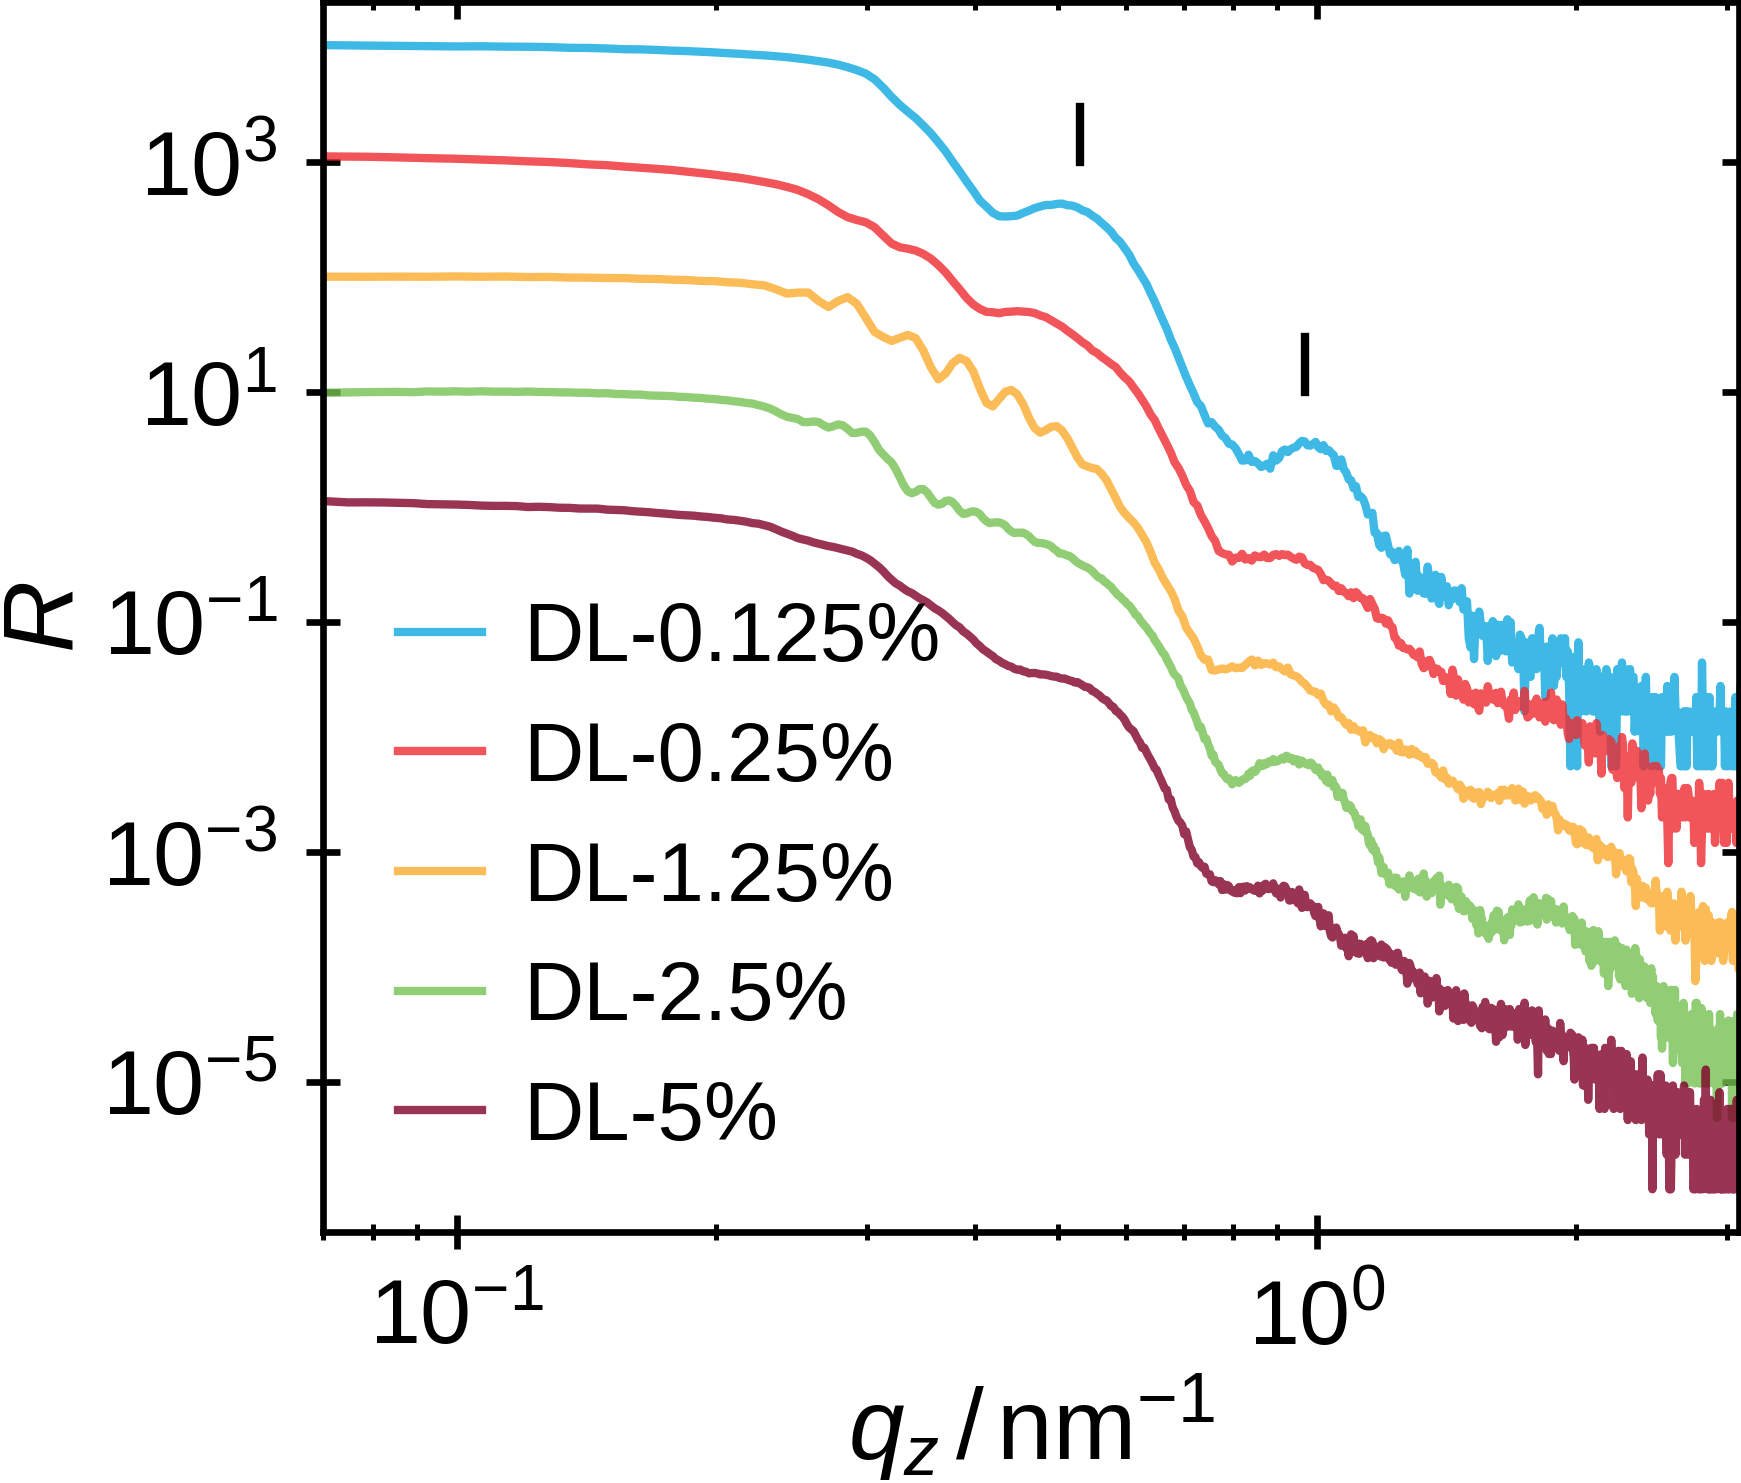
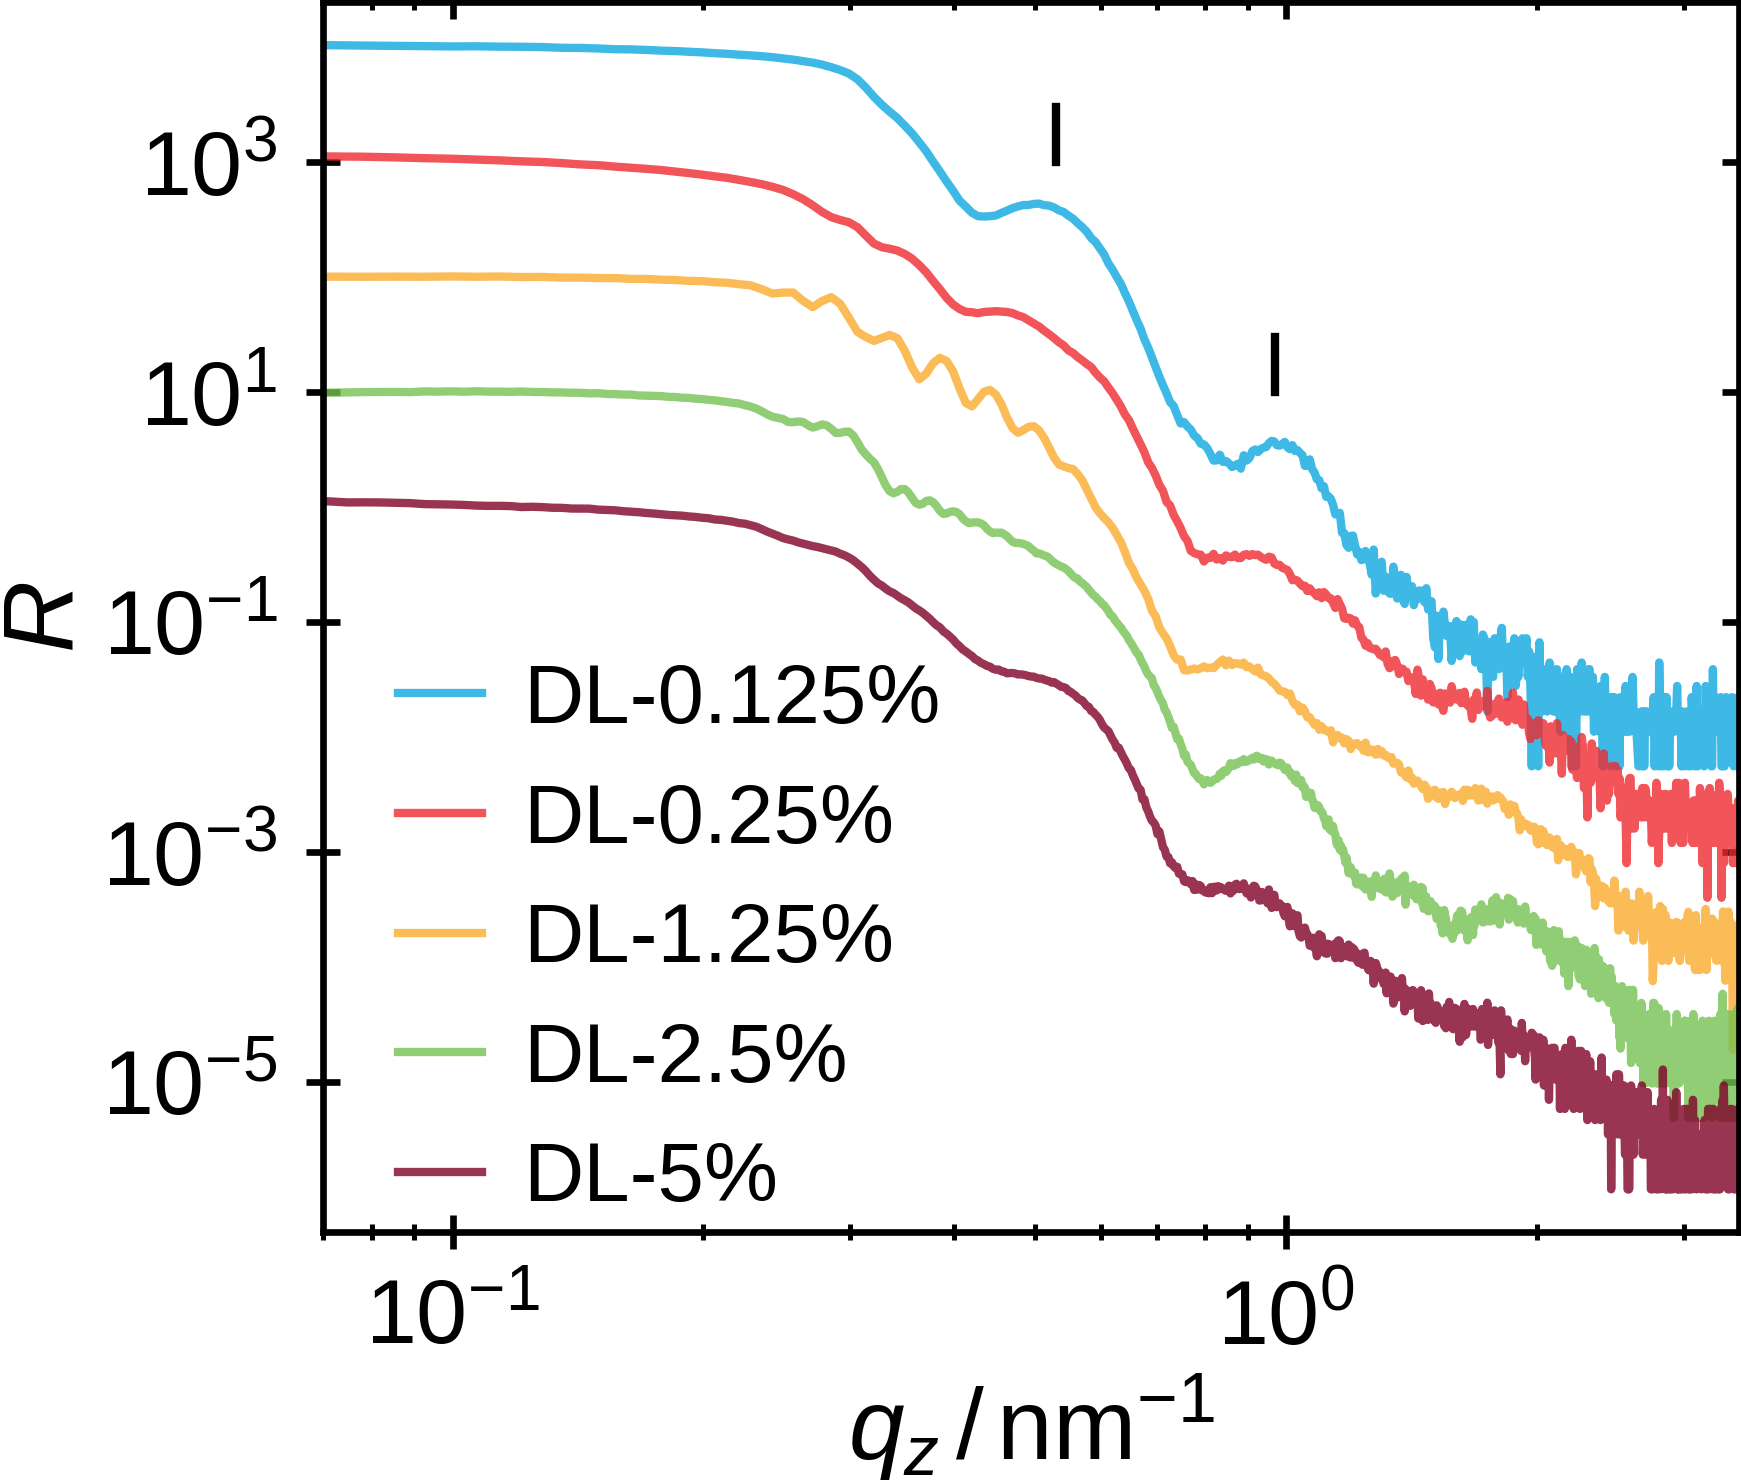
[Correction] Doublelayers exp. part Typo in Q-Range for XRR

diff --git a/chapters/doublelayers/experimentalMethods/layerCharacterization/layerCharacterization.tex b/chapters/doublelayers/experimentalMethods/layerCharacterization/layerCharacterization.tex
@@ -10,7 +10,7 @@
 
   \paragraphNewLine{X-Ray Reflectometry}
     Using a Bruker D8 Advanced at the \textsc{Forschungszentrum J\"ulich} (\refsec{ch:instruments:laboratoryInstruments:xrr}), XRR of all double layers is measured.
-    The samples are measured with a Cu-K$\alpha$ source ($\lambda \eq 1.54 \unit{\angstrom}$) and a $q$-range of $0 - 0.15 \unit{\angstrom^{-1}}$ is evaluated by measuring $2 \theta \eq 0^\circ - 1 ^\circ$ in $0.005 ^\circ$ steps over an integrated time of approximately $1 \unit{h}$.
+    The samples are measured with a Cu-K$\alpha$ source ($\lambda \eq 1.54 \unit{\angstrom}$) and a $q$-range of $0 - 0.35 \unit{\angstrom^{-1}}$ is evaluated by measuring $2 \theta \eq 0^\circ - 5 ^\circ$ in $0.01 ^\circ$ steps over an integrated time of approximately $1 \unit{h}$.
     To perform the footprint correction (\refsec{ch:methods:xrr}) of the sample, the collimation slit of the instrument with $0.2 \unit{mm}$ and samples width of $10 \unit{mm}$ is considered.
     An equidistributed beam intensity profile is assumed for the correction.
 

diff --git a/data/doubleLayers/compareThicknessXRR/THESIScompareThickness.py b/data/doubleLayers/compareThicknessXRR/THESIScompareThickness.py
@@ -40,9 +40,16 @@ ax.set_xscale('log')
 ax.set_yscale('log')
 ax.set_xlabel('$\mathit{q_z} \, / \, nm^{-1}$')
 ax.set_ylabel('$\mathit{R}$')
-ax.set_xlim(0.07, 3.1)
+ax.set_xlim(0.07, 3.5)
 ax.set_ylim(5e-7, 2.5e4)
-ax.legend(loc='lower left', fontsize=10)
+leg = ax.legend(loc='lower left', fontsize=10)
+
+plt.draw()
+bb = leg.get_bbox_to_anchor().inverse_transformed(ax.transAxes)
+xOffset = -0.05
+bb.y0 += xOffset
+bb.y1 += xOffset
+leg.set_bbox_to_anchor(bb, transform = ax.transAxes)
 
 fig.savefig(cwd+'/'+savefile, bbox_inches='tight')
 fig.savefig(thesisimgs+'/'+savefile, bbox_inches='tight')
